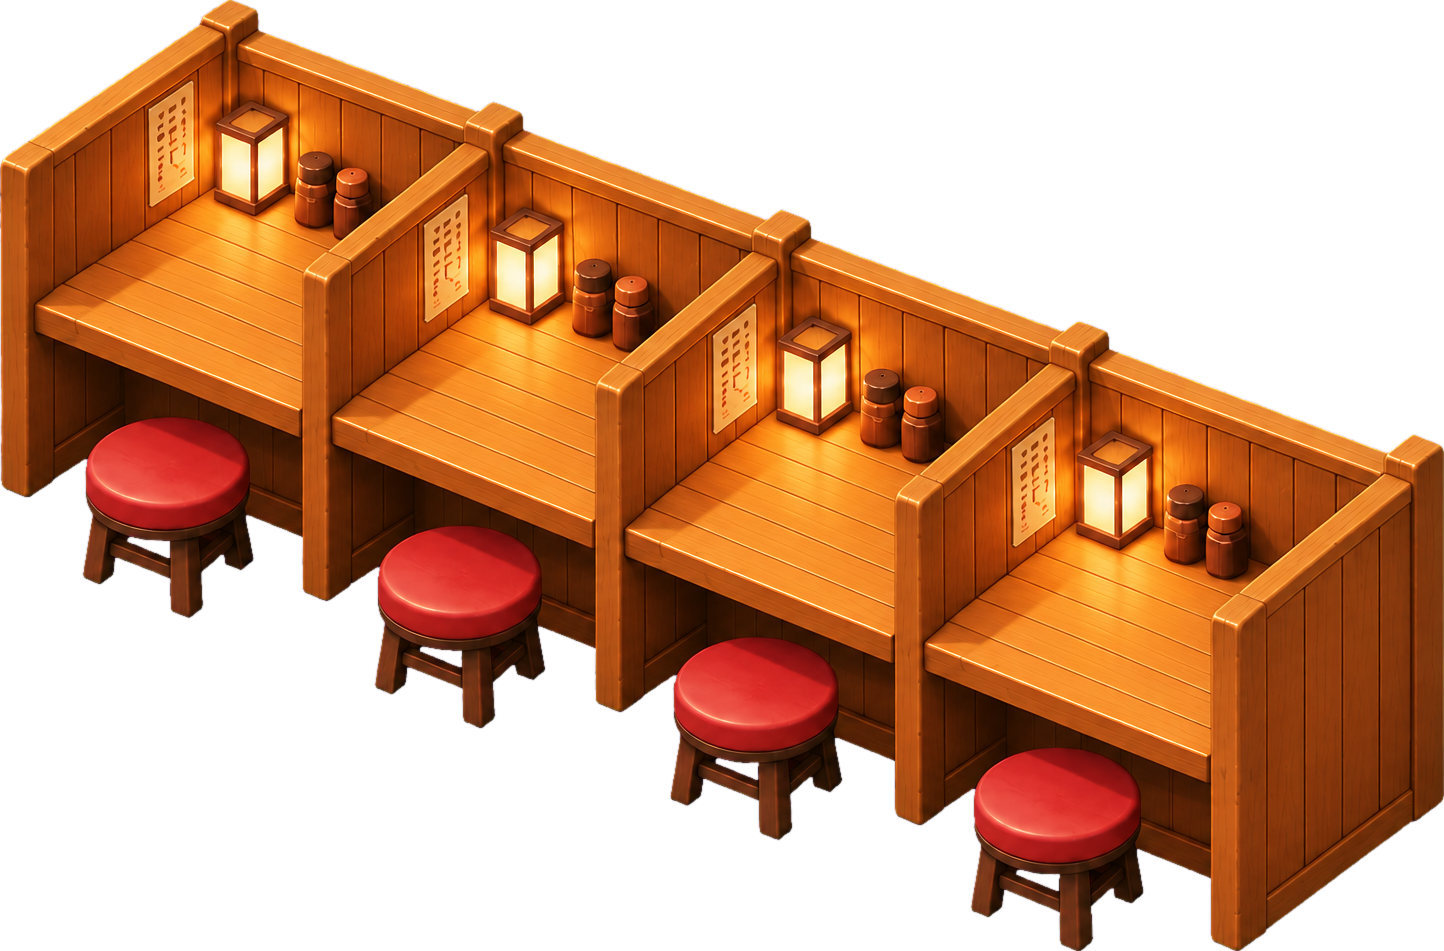
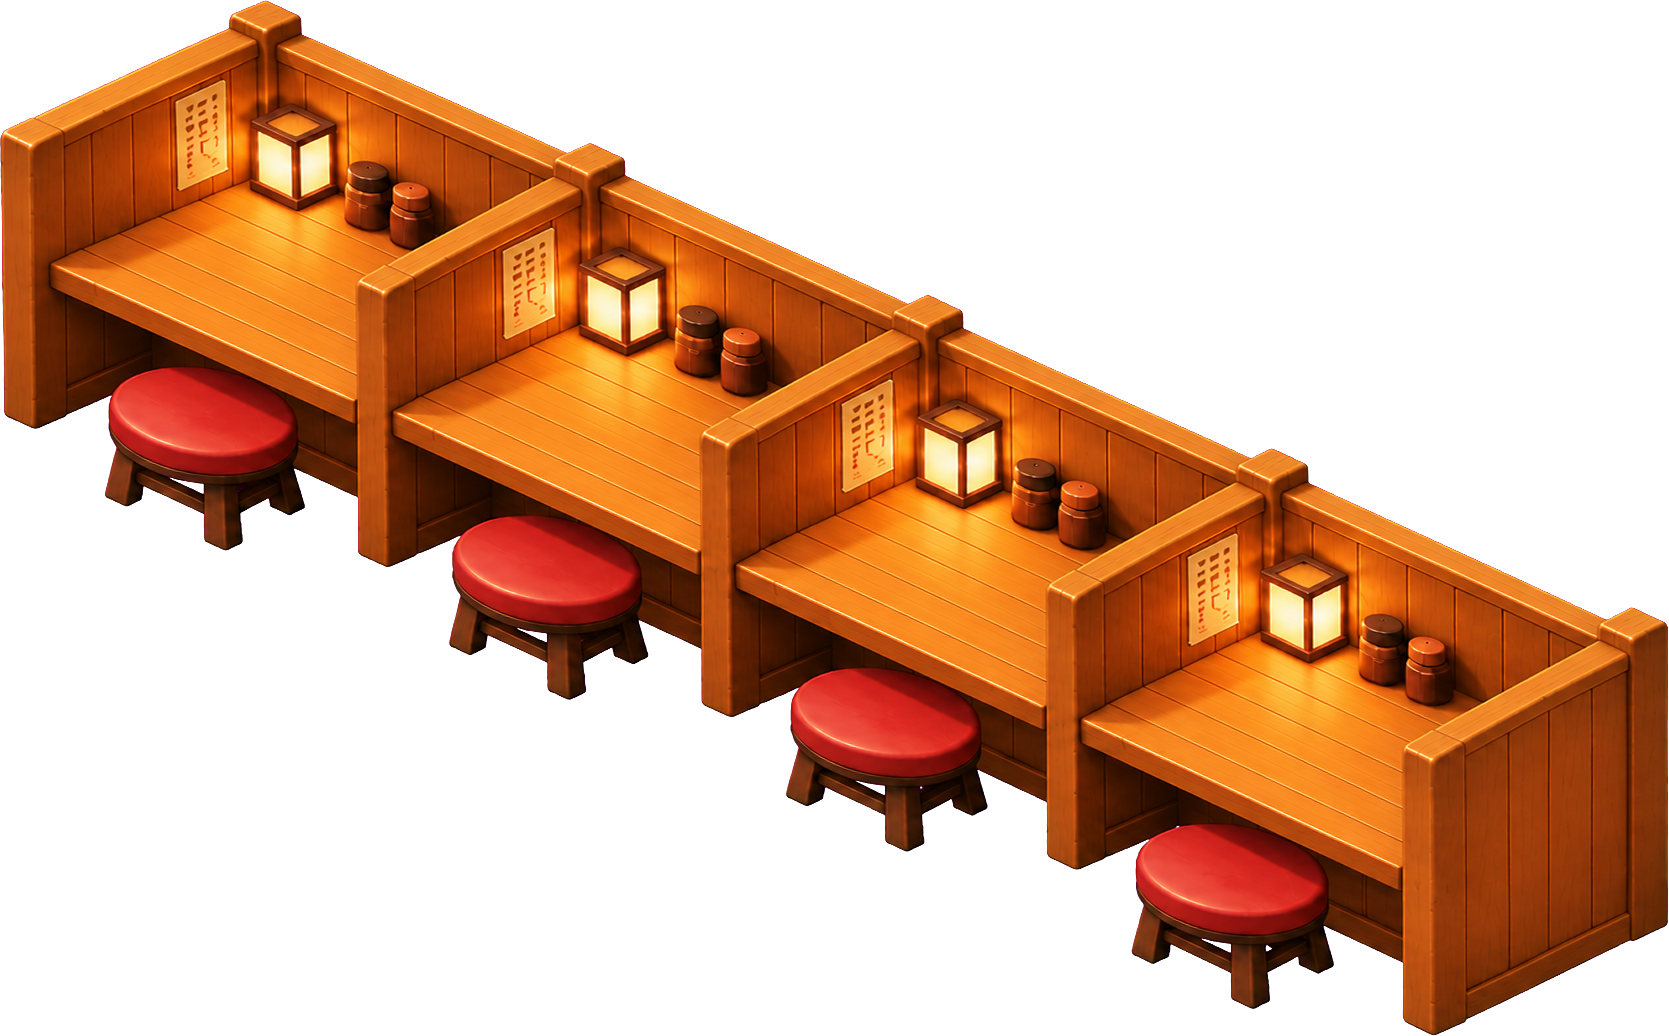
Wall-angle matched carrel and torii (25.8/27.5 deg), bowl anchors

diff --git a/game.js b/game.js
@@ -21,10 +21,10 @@ const items=[],obstacles=[],seats=[],pads=[],actors=[],fx=[];
 const anchors={booth:.085,counter:.070,shelf:.065,pot:.065,noren:0,torii:.035,sign:.060,truck:.070,table:0,fire:0,bag:0};
 function prop(kind,x,y,w,collision){let q={kind,x,y,w};items.push(q);if(collision)obstacles.push([x,y-8,...collision]);return q;}
 // Approved painted 1x4 carrel (single shared walls). Measured in the 1444x951 cutout: stool cushion centers, partition cut x.
-const CK=.30,CAR_H=951,CAR_STOOL=[[163,472],[455,581],[751,694],[1052,805]].map(([x,y])=>[x+17,y+135]),CAR_CUT=[0,163+145,455+145,751+145,1444];
+const CK=0.2511,CAR_H=1036,CAR_STOOL=[[211, 471], [547, 593], [884, 744], [1267, 882]],CAR_CUT=[0, 326, 662, 999, 1669];
 const carPitch=[(CAR_STOOL[3][0]-CAR_STOOL[0][0])/3*CK,(CAR_STOOL[3][1]-CAR_STOOL[0][1])/3*CK],carDepth=[228*CK,-123*CK];
 function carrelSlice(q){const im=assets.carrel,x0=CAR_CUT[q.n],x1=CAR_CUT[q.n+1],e0=q.n?1:0,e1=q.n<3?1:0;ctx.drawImage(im,x0-e0,0,x1-x0+e0+e1,CAR_H,q.ox+(x0-e0)*CK,q.oy,(x1-x0+e0+e1)*CK,CAR_H*CK);
-if(q.seat.food){const r=assets['ramen'+q.n%3],w=46,h=w*r.height/r.width;ctx.drawImage(r,q.sx+38*CK-w/2,q.sy-331*CK-h*.5+4,w,h);}}
+if(q.seat.food){const r=assets['ramen'+q.n%3],w=42,h=w*r.height/r.width;ctx.drawImage(r,q.sx+38*CK-w/2+4,q.sy-331*CK-h*.5+14,w,h);}}
 for(const a of [.09,.45,.81]){const [sx0,sy0]=P(a,.40),ox=sx0-CAR_STOOL[0][0]*CK,oy=sy0-CAR_STOOL[0][1]*CK;
 for(let n=0;n<4;n++){const sx=ox+CAR_STOOL[n][0]*CK,sy=oy+CAR_STOOL[n][1]*CK,cx=sx+22,cy=sy-36;
 const seat={x:cx,y:cy,guest:null,food:0,spot:[sx-19,sy+11],a,b:.42+n*.125};
@@ -33,7 +33,7 @@ obstacles.push([cx,cy,48,22],[sx,sy,16,8]);if(n<3)obstacles.push([cx+carPitch[0]
 function kit(kind,a,b,w,hx,hy){const [x,y]=P(a,b);return prop(kind,x,y+6,w,[hx,hy]);}
 kit('shelf',.14,.11,74,30,14);const c1=kit('counter',.32,.11,140,64,21);kit('pot',.5,.12,62,24,11);const c2=kit('counter',.68,.11,140,64,21);kit('pot',.84,.12,62,24,11);kit('shelf',.94,.12,74,30,14);kit('counter',.42,.31,112,50,18);kit('counter',.74,.31,112,50,18);
 for(const c of [c1,c2]){const n=prop('noren',c.x,c.y-44,140);n.depthParent=c;}
-prop('torii',183.6,691.2,255);prop('sign',356.4,709.2,70);prop('truck',1224,709.2,270);
+prop('torii',183.6,694,262);prop('sign',356.4,709.2,70);prop('truck',1224,709.2,270);
 const definitions=[{id:'table',name:'카운터 강화',a:.1,b:.94,base:[120,300,600],mult:2.2,kind:'table'}, {id:'fire',name:'주방 강화',a:.3,b:.94,base:[100,250,500],mult:1.7,kind:'fire'}, {id:'bag',name:'큰 쟁반',a:.5,b:.94,base:[150],mult:1.8,kind:'bag'}, {id:'hunter',name:'운반 알바',a:.7,b:.94,base:[50,220,380,600,850],mult:1.6,kind:'bag',badge:'📦'}, {id:'server',name:'서빙 알바',a:.9,b:.94,base:[50,220,380,600,850],mult:1.6,kind:'table',badge:'🍜'}, {id:'hunt',name:'재료 입고',a:.96,b:.62,base:[80,200,400,700],mult:1.7,kind:'bag',badge:'🥬'}];
 function cost(d){const lv=S.lv[d.id]||0;return lv<d.base.length?d.base[lv]:Math.round(d.base.at(-1)*Math.pow(d.mult,lv-d.base.length+1));}
 for(const d of definitions){const [x,y]=P(d.a,d.b);pads.push({...d,x,y,paid:S.padPaid?.[d.id]||0});}
